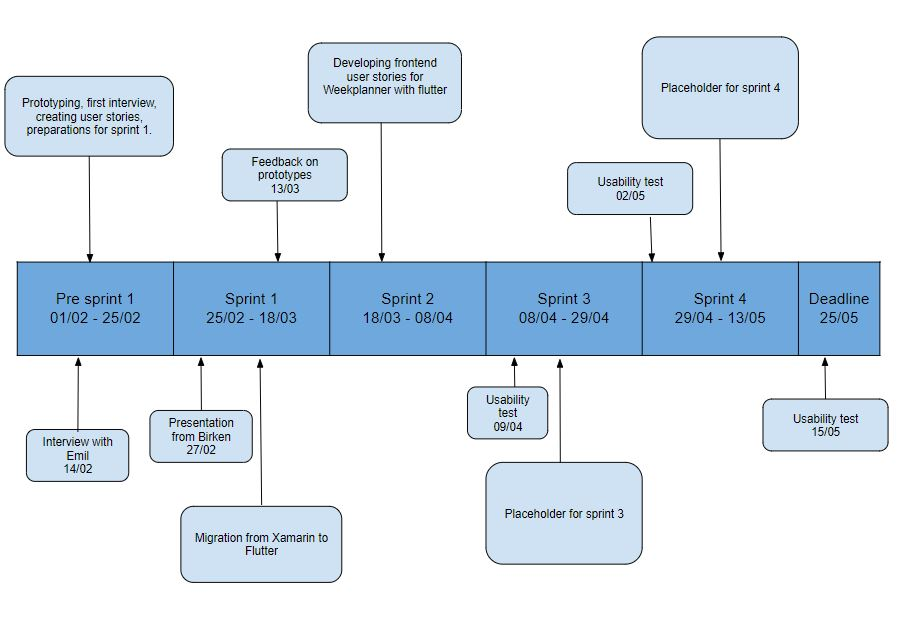
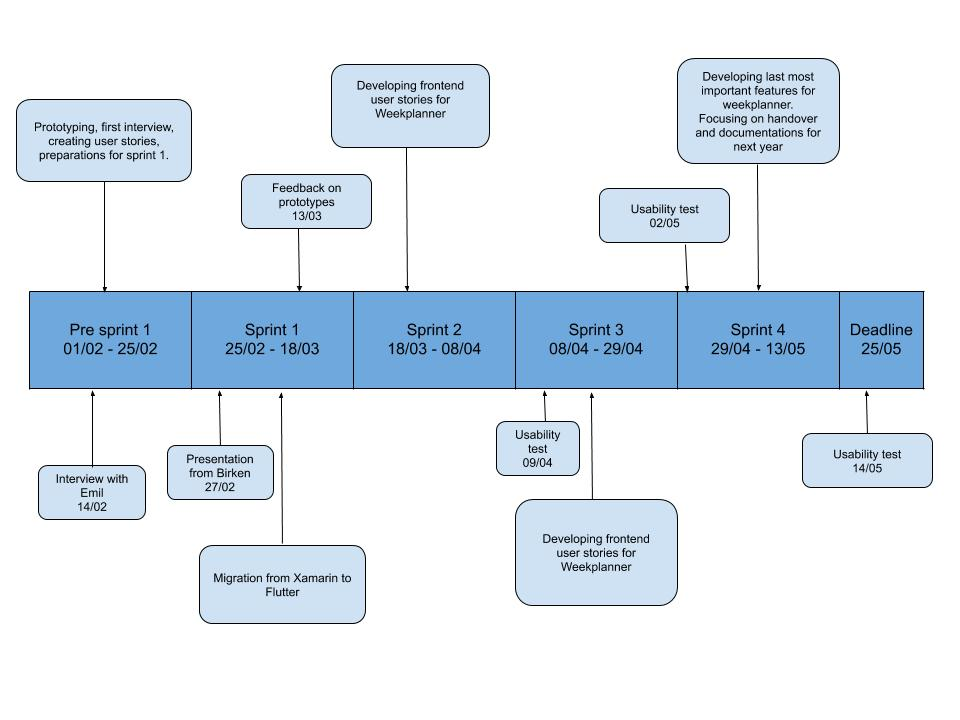
timeline for project

diff --git a/report/sections/introduction/timeline-for-project.tex b/report/sections/introduction/timeline-for-project.tex
@@ -6,7 +6,7 @@ This is what we consider \textit{Pre sprint 1}.
 After this, there are 4 sprints to planned the week planner application.
 The process group planned the sprints such that the last sprint will end two weeks before the deadline for handing in the project.
 These last two weeks will be spent on usability tests with the customers and finishing the report.
-What is common for every sprint is that they follow the scrum of scrum guidelines previously described in \autoref{scrum-of-scrums}.
+What is common for every sprint is that they follow the process guidelines previously described in \autoref{scrum-of-scrums}.
 
 \begin{figure}[H]
     \center{\includegraphics[width=\textwidth]
@@ -14,18 +14,16 @@ What is common for every sprint is that they follow the scrum of scrum guideline
     \caption{\label{fig:timeline-for-project} Timeline for the project.}
 \end{figure}
 
-\noindent The light blue boxes show the highlights of what our group has been doing during each sprint and when.
+\noindent The light blue boxes show the highlights of what has been focused on during each sprint.
 
 \noindent Every sprint starts with a sprint introduction where the PO group presents an introduction to the sprint.
-Throughout the sprint a weekly scrum of scrums stand up is arranged, where each group can give a status update on their current progress.
+Throughout the sprint a weekly stand up meeting is arranged, where each group can give a status update on their current progress.
 Skill group meetings are arranged when the skill groups feel that they are needed.\\
 Four days before a sprint ends the release preparations start.
 The PO group decides which features should be included in the release during this preparation.
 When the release preparations are completed, a release party is arranged where the release is presented to the rest of the groups.
 This party is held to give the groups present a sense of ownership to all groups and let them see what was accomplished in the sprint. 
 A sprint review is arranged after the release, followed by a sprint retrospective.
-
-\todo{Figure is updated continously}
 
 \subsubsection{Pre sprint 1}
 \textit{Pre sprint 1} was where the preparation for the first sprint happened.
@@ -34,6 +32,7 @@ During this time the POs contact and interview customers to gain insight into wh
 With these interviews, user stories and prototypes are created so that they are ready for sprint 1.
 In \textit{pre sprint 1}, an interview with Emil from Egebakken was conducted. 
 This interview is described in \autoref{interview-with-emil}.
+The process group focuses on establising the process guidelines, while the development groups are researching the existing codebase.
 
 \subsubsection{Sprint 1}
 A presentation from the kindergarten Birken was given on February 27th.
@@ -46,16 +45,26 @@ A meeting was planned with the customers on March 13th to get feedback on the pr
 This interview resulted in some of the prototypes getting reworked to better fit the customers needs.
 
 \subsubsection{Sprint 2}
-As there was no release at the end of sprint 1 because of the decision to migrate to Flutter, no usability test could be conducted.
-Instead this sprint was spent developing user stories planned in sprint 1.
-
-
-\todo{To be continued...}
+As there was no release at the end of sprint 1 because of the decision to migrate to Flutter.
+Many of the user stories assigned in Sprint 1 were not completed and due to this there were no reason to conduct a usability test in sprint 1.
+Instead sprint 2 was mostly spent developing user stories planned in sprint 1 and some extra user stories for sprint 2.
+During this sprint the PO group also implemented some user stories, which are described in \autoref{our-assigned-user-stories-sprint-2}
+At the end of this sprint the first release was completed.
 
 \subsubsection{Sprint 3}
-\todo{Write in sprint 3}
+There were still some leftover user stories from sprint 1 and sprint 2, which were not completed due to some dependencies. 
+At this point the project is starting to have a some of the most essential features implemented, but still a needing a lot of features before it being useable. 
+This sprint focused mostly on implementing user stories.
+However, there were also developed new prototypes during this sprint.
+This sprint ended with a usability test which are described in \todo{ref til rasmus' lort}
 
 \subsubsection{Sprint 4}
-\todo{Write in sprint 4}
+As sprint 4 is our final sprint, this sprint focuses a lot on finishing the work that were not completed from previous sprints and developing the most important user stories to have a minimal viable product.
+The PO group and process group does not implement user stories this sprint, as they focus on documentation and making the handover to next year as good as possible.
+In the end of the sprint the last usability test is conducted.
+The purpose for this usabiltiy test is to get an better understanding were to direct the project for next year.
+
 \subsubsection{Deadline}
-\todo{Write after usability test after sprint 4.}
+All development on the weekplamner ends at May 13th, and we expect all groups to only focus on finishing their report.
+The PO group still needs to finish some documentation for next year, as the last usability test is held on May 14th.
+Project handin is on May 25th.

diff --git a/report/sections/sprint2/our-user-stories.tex b/report/sections/sprint2/our-user-stories.tex
@@ -1,4 +1,4 @@
-\section{Our assigned user stories}
+\section{Our assigned user stories}\label{our-assigned-user-stories-sprint-2}
 For sprint 2 we were assigned two user stories to implement on top of our responsibilities as PO.
 In the following section we give a short introduction to Flutter, the work flow followed by the GIRAF project and how we implemented the stories.
 
